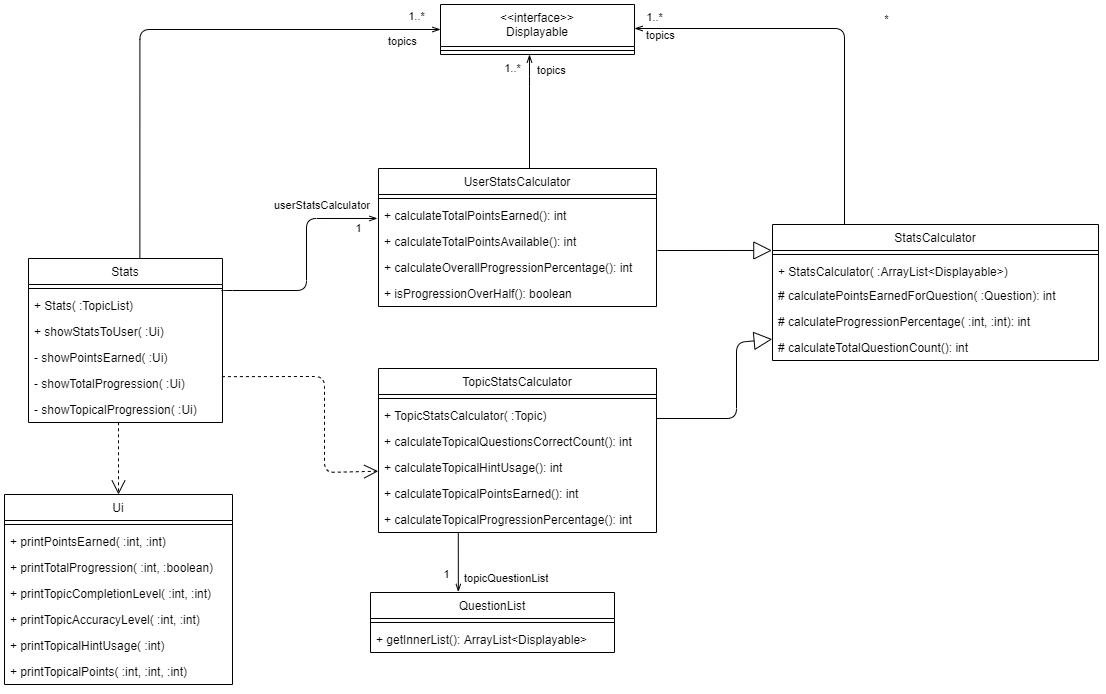
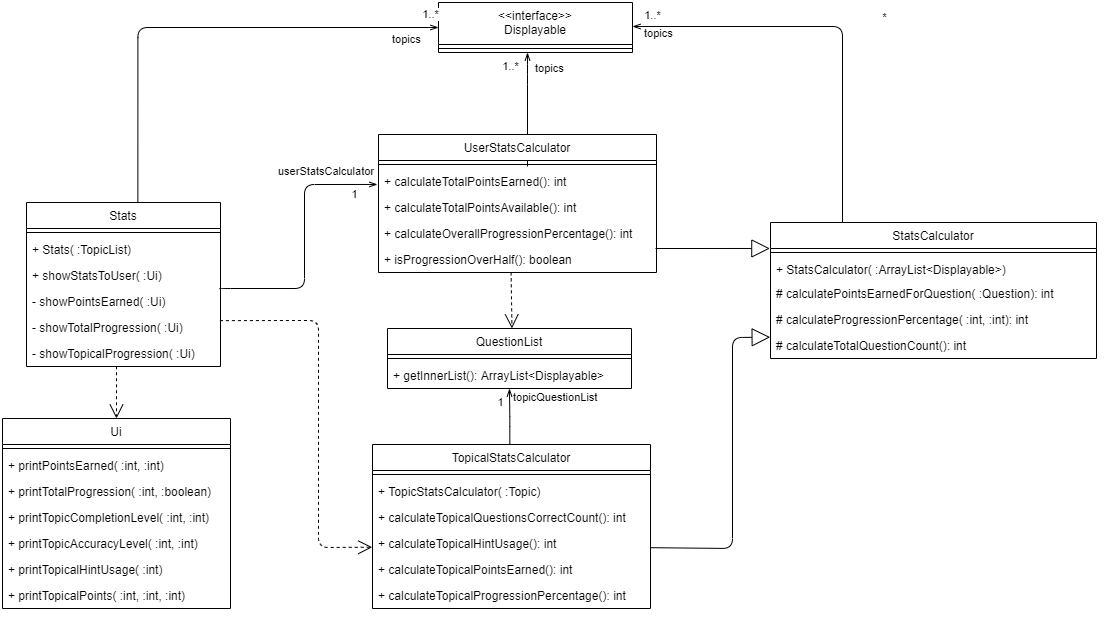
Add sequence diagram for stats feature

diff --git a/docs/DeveloperGuide.md b/docs/DeveloperGuide.md
@@ -219,7 +219,7 @@ As mentioned earlier in the section on the design of the quiz system, a `QuizQue
 The sequence diagram below shows how `QuizQuestionsManager` is implemented to achieve this for the scenario where the user indicates that he wants to attempt 5 questions from the topic on OOP, which translates to the `setQuizQuestions(5, questionsInTopic)` call:
 
 
-![QuizQuestionsManager_setQuizQuestions](./images/QuizQuestionsManager_setQuizQuestions.png)
+![QuizQuestionsManager::setQuizQuestions_Sequence_Diagram](./images/QuizQuestionsManager_setQuizQuestions.png)
 
 `nextInt(5)` is a method call to an object of the `Random` class. It returns a random integer between 0 (inclusive) and the number passed in as argument, 5 in this scenario, exclusive. 
 
@@ -229,9 +229,9 @@ An ArrayList of `Question` objects stores all the selected questions meant for t
 
 #### 2.3.5 Design of Stats Feature
 
-E-Duke-8 allows for user’s stats to be shown to the user when requested. These stats correspond to the results of the user’s past attempts of the quiz. An aggregate result, followed by topical results of the quiz will be displayed. 
+E-Duke-8 allows for user’s stats to be shown to the user when requested. These statistics correspond to the results of the user’s past attempts of the quiz. An aggregate result, followed by topical results of the quiz will be displayed. 
 
-A `Stats` class facilitates what is to be shown to the user. It also calls the methods of the two subclasses of `StatsCalculator` to retrieve the necessary information to be displayed.
+A `Stats` class facilitates what is to be shown to the user. It also calls the methods of the objects of the two subclasses of `StatsCalculator`, `UserStatsCalculator` and `TopicalStatsCalculator` to retrieve the necessary information to be displayed.
 
 The class diagram given below showcases the high-level design of the stats feature in E-Duke-8. Given below it is a quick overview of each component.
 
@@ -239,12 +239,23 @@ The class diagram given below showcases the high-level design of the stats featu
 
 Results of the quiz attempts can be calculated using the information stored in a `Question` object, because of its methods, namely `wasShown()`,  `wasHintShown()` and `wasAnsweredCorrectly()`, that indicate if it has been attempted before, whether hint was used when user attempted the question and if the question was answered correctly respectively. 
 
-The current design of the stats feature is such that a correct answer without hint being used would award the user with 2 points, while a correct answer with hint used would award the user with 1 point. No point is awarded to the user if he chose the wrong answer. `calculatePointsEarnedForQuestion( :Question)’ is the method that contains the logic for this calculation. The method is explored further in the subsequent section. 
+The current design of the stats feature is such that a correct answer without hint being used would award the user with 2 points, while a correct answer with hint used would award the user with 1 point. No point is awarded to the user if they chose the wrong answer. `calculatePointsEarnedForQuestion( :Question)` in `StatsCalculator` class and its subclasses, is the method that contains the logic for this calculation.
 
 An object of `UserStatsCalculator` class is responsible for calculating the aggregate results from the user’s previous quiz results. For instance, its `calculateTotalPointsEarned()` method will iterate through the multiple topics stored in E-Duke-8 and calculate the total sum of the user’s past results of the quizzes done for those topics.
 
-On the other hand, an object of `TopicStatsCalculator` is used by the object of `Stats` class to calculate the topical results. In its constructor, the `TopicStatsCalculator` object uses the single `Topic` object passed into it to retrieve its specific `QuestionList` object. Thereafter, by iterating through the questions for the particular `QuestionList` object, the results for individual topics can be calculated with its methods.
+On the other hand, an object of `TopicalStatsCalculator` is used by the object of `Stats` class to calculate the topical results. In its constructor, the `TopicalStatsCalculator` object uses the single `Topic` object passed into it to retrieve its specific `QuestionList` object. Thereafter, by iterating through the questions for the particular `QuestionList` object, the results for individual topics can be calculated with its methods.
 
+#### 2.3.6. Implementation of Stats Feature
+
+The current implementation of the stats feature is such that the object of `Stats` class controls what is shown to the user when the `stats` command is received. It calls on methods of a `UserStatsCalculator` object and a `TopicalStatsCalculator` object to calculate and retrieve the statistics of the user’s previous attempts of quizzes in E-Duke-8, before displaying them.
+
+The sequence diagram below shows the interactions between the different objects when `showPointsEarned(ui)` is invoked, by the object of `Stats` class, to display to the user the total points he has earned in E-Duke-8 so far, out of all the points that he can potentially earn. 
+
+![Stats::showPointsEarned_Sequence_Diagram](./images/Stats_showPointsEarned.png)
+
+Through the logic in the object of `UserStatsCalculator`, necessary information regarding the user’s statistics, such as the `totalPointsGained` integer value and `totalPointsAvailable` integer value, are calculated, and then passed to the `Ui` object to print them to the user. This same concept and procedure are applied to the display the other aggregate results.
+
+A similar procedure is being employed by the `TopicalStatsCalculator` object to calculate the topic-level statistics for the user. The only difference between the objects of these two classes is that instead of iterating through all the topics available, the ` TopicalStatsCalculator` object only deals with a particular topic at any point of time. By iterating through the questions of the single topic, it calculates statistics for the topic and returns it back to the `Stats` object, which will then pass them to the `Ui` object to display them to the user. As such, in order to display the user’s statistics for each and every topic, a loop is done in the `Stats` object to repeatedly calculate the topic-level information for all of the topics and displaying them concurrently. 
 
 
 ### 2.4. Storage Component
